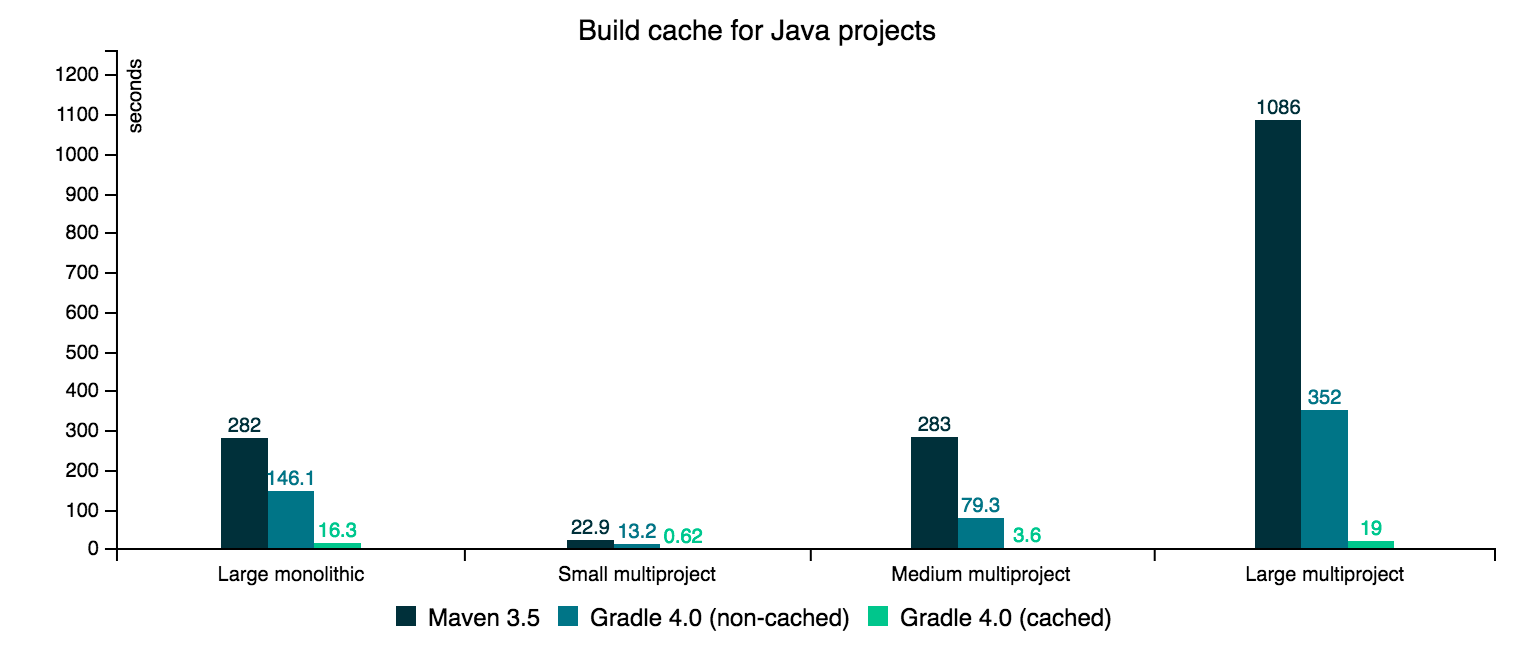
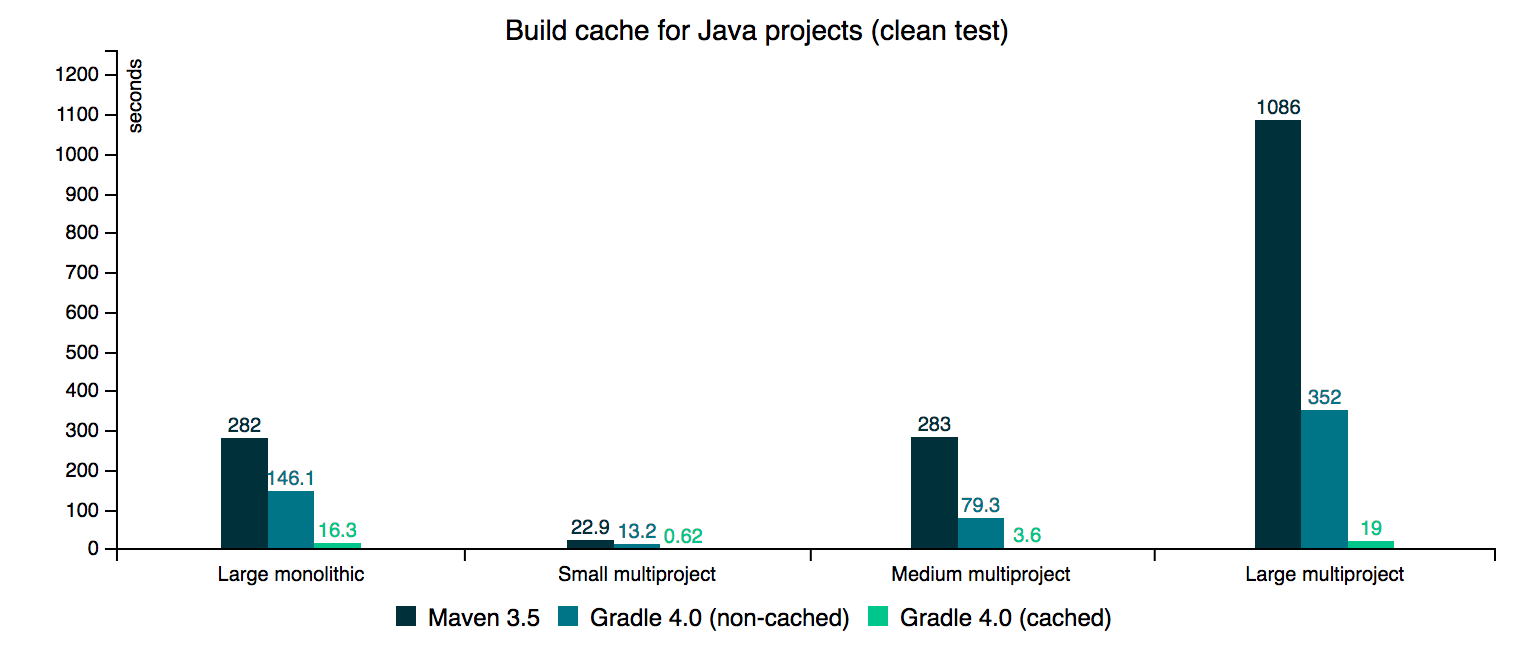
Some more polishing

diff --git a/src/docs/graphs.html b/src/docs/graphs.html
@@ -79,7 +79,7 @@ c3.generate({
         position: 'bottom',
     },
     title: {
-        text: 'Build cache for Java projects'
+        text: 'Build cache for Java projects (clean test)'
     },
     color: {
         pattern: ['#02303a', '#1C7487', '#00c489']
